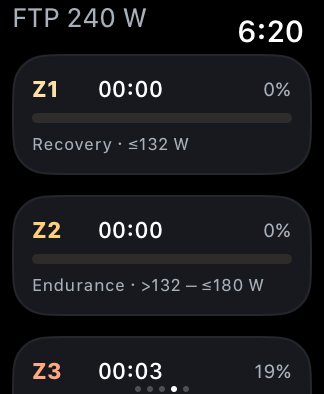
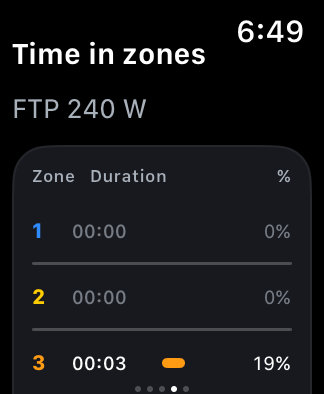
Refine zone charts and verify physical Watch installation

diff --git a/WatchApp/Views/AnalyticsView.swift b/WatchApp/Views/AnalyticsView.swift
@@ -32,12 +32,32 @@ struct ZoneStrip: View {
 struct TrendChart: View {
     let timeline: MetricTimeline
     let metric: ZoneMetric
+    var profile = TrainingProfile()
     var compact = false
     var height: CGFloat = 90
     private var lower: Double { max(0, (timeline.points.map(\.value).min() ?? 0) - (metric == .heartRate ? 10 : 25)) }
     private var upper: Double { max(lower + 20, (timeline.points.map(\.value).max() ?? 100) + (metric == .heartRate ? 10 : 25)) }
 
+    private func zoneGradient(lower: Double, upper: Double, opacity: Double = 1) -> LinearGradient {
+        let zones = profile.zones(for: metric)
+        guard !zones.isEmpty else {
+            return LinearGradient(colors: [metric.tint.opacity(opacity), metric.tint.opacity(opacity)], startPoint: .bottom, endPoint: .top)
+        }
+        var stops = [Gradient.Stop(color: Palette.zone(profile.zone(for: max(1, lower), metric: metric)?.id ?? zones[0].id).opacity(opacity), location: 0)]
+        for (index, zone) in zones.enumerated() where index > 0 && zone.lowerBound > lower && zone.lowerBound < upper {
+            let location = (zone.lowerBound - lower) / (upper - lower)
+            stops.append(.init(color: Palette.zone(zones[index - 1].id).opacity(opacity), location: location))
+            stops.append(.init(color: Palette.zone(zone.id).opacity(opacity), location: location))
+        }
+        stops.append(.init(color: Palette.zone(profile.zone(for: upper, metric: metric)?.id ?? zones.last!.id).opacity(opacity), location: 1))
+        return LinearGradient(stops: stops, startPoint: .bottom, endPoint: .top)
+    }
+
     var body: some View {
+        let domainLow = lower
+        let domainHigh = upper
+        let lineGradient = zoneGradient(lower: domainLow, upper: domainHigh)
+        let areaGradient = zoneGradient(lower: domainLow, upper: domainHigh, opacity: 0.14)
         Group {
             if timeline.points.isEmpty {
                 VStack(spacing: 6) {
@@ -47,22 +67,23 @@ struct TrendChart: View {
             } else {
                 Chart {
                     ForEach(Array(timeline.points.enumerated()), id: \.offset) { _, point in
-                        AreaMark(x: .value("Active time", point.elapsed), yStart: .value("Base", lower), yEnd: .value(metric.title, point.value), series: .value("Segment", point.segment))
-                            .foregroundStyle(LinearGradient(colors: [metric.tint.opacity(0.25), metric.tint.opacity(0.01)], startPoint: .top, endPoint: .bottom))
+                        AreaMark(x: .value("Active time", point.elapsed), yStart: .value("Base", domainLow), yEnd: .value(metric.title, point.value), series: .value("Segment", point.segment))
+                            .foregroundStyle(areaGradient).alignsMarkStylesWithPlotArea()
                         LineMark(x: .value("Active time", point.elapsed), y: .value(metric.title, point.value), series: .value("Segment", point.segment))
-                            .foregroundStyle(metric.tint).lineStyle(StrokeStyle(lineWidth: 1.8, lineCap: .round))
+                            .foregroundStyle(lineGradient).alignsMarkStylesWithPlotArea()
+                            .lineStyle(StrokeStyle(lineWidth: 1.8, lineCap: .round))
                     }
                     if let last = timeline.points.last {
                         PointMark(x: .value("Active time", last.elapsed), y: .value(metric.title, last.value))
-                            .foregroundStyle(metric.tint).symbolSize(12)
+                            .foregroundStyle(profile.zone(for: last.value, metric: metric).map { Palette.zone($0.id) } ?? metric.tint).symbolSize(12)
                     }
                 }
-                .chartYScale(domain: lower...upper)
+                .chartYScale(domain: domainLow...domainHigh)
                 .chartXScale(domain: 0...max(1, timeline.points.last?.elapsed ?? 1))
                 .chartXAxis(.hidden)
                 .chartYAxis {
                     if !compact {
-                        AxisMarks(position: .leading, values: .automatic(desiredCount: 3)) { _ in
+                        AxisMarks(position: .trailing, values: .automatic(desiredCount: 3)) { _ in
                             AxisGridLine().foregroundStyle(.white.opacity(0.07))
                             AxisValueLabel().font(.system(size: 9)).foregroundStyle(Palette.muted)
                         }
@@ -103,8 +124,9 @@ struct LiveZoneView: View {
                             .accessibilityIdentifier("\(metric.rawValue)LiveZone")
                         ZoneStrip(profile: workout.analytics.profile, metric: metric, selected: zone?.id)
                     }
-                    TrendChart(timeline: workout.analytics.timeline(for: metric), metric: metric, height: 60)
+                    TrendChart(timeline: workout.analytics.timeline(for: metric), metric: metric, profile: workout.analytics.profile, height: 60)
                     chartTimeLabels(workout.analytics.timeline(for: metric))
+                    ZoneScale(profile: workout.analytics.profile, metric: metric, value: value).padding(.top, 8)
                     ZoneDistribution(analytics: workout.analytics, metric: metric, duration: workout.elapsed).padding(.top, 12)
                 }.padding(.horizontal, 4).padding(.bottom, 18)
             }.accessibilityIdentifier("\(metric.rawValue)Insights")
@@ -117,18 +139,34 @@ struct WorkoutInsightsView: View {
     let metric: ZoneMetric
     let duration: TimeInterval
     var body: some View {
+        let timeline = analytics.timeline(for: metric)
+        let averageZone = analytics.profile.zone(for: timeline.average, metric: metric)
         ScrollView {
-            VStack(alignment: .leading, spacing: 14) {
-                HStack {
-                    compactStat("Average", value: formatted(analytics.timeline(for: metric).average), unit: metric.unit, tint: metric.tint)
-                    Spacer()
-                    compactStat("Peak", value: formatted(analytics.timeline(for: metric).peak), unit: metric.unit, tint: .white)
-                }
-                VStack(spacing: 6) {
-                    TrendChart(timeline: analytics.timeline(for: metric), metric: metric)
-                    chartTimeLabels(analytics.timeline(for: metric))
-                }
+            VStack(alignment: .leading, spacing: 12) {
+                VStack(alignment: .leading, spacing: 8) {
+                    HStack(alignment: .bottom, spacing: 4) {
+                        VStack(alignment: .leading, spacing: 3) {
+                            HStack(alignment: .firstTextBaseline, spacing: 2) {
+                                Text(formatted(timeline.average)).font(.system(size: 25, weight: .semibold, design: .rounded)).monospacedDigit()
+                                Text(metric.unit).font(.system(size: 10)).foregroundStyle(Palette.muted)
+                            }
+                            Text(metric == .heartRate ? "Average HR" : "Average power").font(.system(size: 10)).foregroundStyle(Palette.muted)
+                        }
+                        Spacer(minLength: 0)
+                        if let averageZone {
+                            Text(averageZone.label).font(.system(size: 10, weight: .semibold)).foregroundStyle(Palette.zone(averageZone.id))
+                        }
+                    }
+                    TrendChart(timeline: timeline, metric: metric, profile: analytics.profile, height: 65)
+                    chartTimeLabels(timeline)
+                    ZoneScale(profile: analytics.profile, metric: metric, value: timeline.average)
+                }.metricCard()
                 ZoneDistribution(analytics: analytics, metric: metric, duration: duration)
+                HStack {
+                    Text("Peak \(metric.title.lowercased())").font(.caption2).foregroundStyle(Palette.muted)
+                    Spacer(minLength: 3)
+                    Text("\(formatted(timeline.peak)) \(metric.unit)").font(.caption2).monospacedDigit()
+                }
             }.padding(.horizontal, 4).padding(.bottom, 12)
         }.navigationTitle(metric.title)
     }
@@ -138,6 +176,7 @@ struct ZoneDistribution: View {
     let analytics: WorkoutAnalytics
     let metric: ZoneMetric
     let duration: TimeInterval
+    @State private var showRanges = false
     private var timeline: MetricTimeline { analytics.timeline(for: metric) }
     var body: some View {
         VStack(alignment: .leading, spacing: 10) {
@@ -145,27 +184,55 @@ struct ZoneDistribution: View {
             if let baseline = analytics.profile.baseline(for: metric) {
                 Text("\(metric == .heartRate ? "Max HR" : "FTP") \(Int(baseline)) \(metric.unit)")
                     .font(.caption2).foregroundStyle(Palette.muted)
-                ForEach(analytics.profile.zones(for: metric)) { zone in
-                    let seconds = timeline.zoneSeconds[zone.id, default: 0]
-                    let fraction = timeline.recordedSeconds > 0 ? seconds / timeline.recordedSeconds : 0
-                    VStack(alignment: .leading, spacing: 5) {
-                        HStack {
-                            Text(zone.id == 0 ? "< Z1" : "Z\(zone.id)").foregroundStyle(Palette.zone(zone.id))
-                                .font(.system(size: 12, weight: .bold)).frame(width: 29, alignment: .leading)
-                            Text(MetricFormat.elapsed(seconds)).font(.system(size: 12, weight: .medium)).monospacedDigit()
-                            Spacer(minLength: 3)
-                            Text(String(format: "%.0f%%", fraction * 100)).font(.system(size: 10)).foregroundStyle(Palette.muted)
+                VStack(spacing: 0) {
+                    HStack {
+                        Text("Zone").frame(width: 25, alignment: .leading)
+                        Text("Duration")
+                        Spacer()
+                        Text("%")
+                    }.font(.system(size: 9, weight: .medium)).foregroundStyle(Palette.muted).padding(.bottom, 6)
+                    ForEach(analytics.profile.zones(for: metric)) { zone in
+                        let seconds = timeline.zoneSeconds[zone.id, default: 0]
+                        let fraction = timeline.recordedSeconds > 0 ? seconds / timeline.recordedSeconds : 0
+                        let longest = timeline.zoneSeconds.values.max() ?? 0
+                        let barFraction = longest > 0 ? seconds / longest : 0
+                        HStack(spacing: 5) {
+                            Text("\(zone.id)").foregroundStyle(Palette.zone(zone.id))
+                                .font(.system(size: 11, weight: .bold)).frame(width: 15, alignment: .leading)
+                            Text(MetricFormat.elapsed(seconds)).font(.system(size: 10, weight: .medium)).monospacedDigit()
+                                .frame(width: 40, alignment: .leading).minimumScaleFactor(0.7).lineLimit(1)
+                            GeometryReader { geometry in
+                                Capsule().fill(Palette.zone(zone.id)).frame(width: geometry.size.width * min(1, barFraction))
+                            }.frame(height: 5)
+                            Text(String(format: "%.0f%%", fraction * 100)).font(.system(size: 10)).monospacedDigit()
+                                .frame(width: 26, alignment: .trailing)
+                        }.foregroundStyle(seconds > 0 ? .white : Palette.muted.opacity(0.65)).padding(.vertical, 9)
+                            .accessibilityElement(children: .ignore)
+                            .accessibilityLabel("\(zone.label), \(zone.name)")
+                            .accessibilityValue("\(MetricFormat.elapsed(seconds)), \(Int((fraction * 100).rounded())) percent, \(zone.range) \(metric.unit)")
+                            .accessibilityIdentifier("\(metric.rawValue)ZoneRow\(zone.id)")
+                        if zone.id != analytics.profile.zones(for: metric).last?.id {
+                            Divider().overlay(.white.opacity(0.03))
                         }
-                        GeometryReader { geometry in
-                            Capsule().fill(Palette.zone(zone.id).opacity(0.10))
-                            Capsule().fill(Palette.zone(zone.id)).frame(width: geometry.size.width * min(1, fraction))
-                        }.frame(height: 5)
-                        Text("\(zone.name) · \(zone.range) \(metric.unit)")
-                            .font(.system(size: 9)).foregroundStyle(Palette.muted).fixedSize(horizontal: false, vertical: true)
-                    }.metricCard()
-                        .accessibilityElement(children: .ignore)
-                        .accessibilityLabel("\(zone.label), \(zone.name)")
-                        .accessibilityValue("\(MetricFormat.elapsed(seconds)), \(Int((fraction * 100).rounded())) percent, \(zone.range) \(metric.unit)")
+                    }
+                }.metricCard()
+                Button {
+                    showRanges.toggle()
+                } label: {
+                    HStack {
+                        Text("Zone ranges")
+                        Spacer()
+                        Image(systemName: showRanges ? "chevron.up" : "chevron.down")
+                    }.font(.system(size: 11))
+                }.accessibilityIdentifier("\(metric.rawValue)ZoneRanges")
+                if showRanges {
+                    ForEach(analytics.profile.zones(for: metric)) { zone in
+                        HStack {
+                            Text("Z\(zone.id)").foregroundStyle(Palette.zone(zone.id))
+                            Spacer(minLength: 3)
+                            Text("\(zone.range) \(metric.unit)")
+                        }.font(.system(size: 10)).padding(.vertical, 3)
+                    }
                 }
                 Text("Percent of recorded \(metric.title.lowercased()) time. Pauses are excluded.")
                     .font(.caption2).foregroundStyle(Palette.muted)
@@ -178,6 +245,57 @@ struct ZoneDistribution: View {
                 Spacer()
                 Text(MetricFormat.elapsed(max(0, duration - timeline.recordedSeconds))).font(.caption2).monospacedDigit()
             }.foregroundStyle(Palette.muted)
+        }
+    }
+}
+
+/// Equal-width bands match the reference's readable legend. The marker's
+/// position within a band reflects the value within that band's numeric range.
+struct ZoneScale: View {
+    let profile: TrainingProfile
+    let metric: ZoneMetric
+    let value: Double?
+    private var zones: [TrainingZone] { profile.zones(for: metric) }
+
+    private var position: Double? {
+        guard let value, let current = profile.zone(for: value, metric: metric),
+              let index = zones.firstIndex(where: { $0.id == current.id }),
+              let baseline = profile.baseline(for: metric) else { return nil }
+        let upper = current.upperBound ?? baseline * (metric == .heartRate ? 1 : 2)
+        let fraction = min(1, max(0, (value - current.lowerBound) / max(1, upper - current.lowerBound)))
+        return (Double(index) + fraction) / Double(zones.count)
+    }
+
+    var body: some View {
+        if !zones.isEmpty {
+            VStack(spacing: 4) {
+                HStack(spacing: 1) {
+                    ForEach(zones) { zone in
+                        Text("Z\(zone.id)").font(.system(size: 9, weight: .semibold))
+                            .foregroundStyle(Palette.zone(zone.id)).frame(maxWidth: .infinity)
+                    }
+                }
+                GeometryReader { geometry in
+                    HStack(spacing: 1) {
+                        ForEach(zones) { zone in Rectangle().fill(Palette.zone(zone.id)) }
+                    }.clipShape(Capsule())
+                    if let position {
+                        Circle().fill(Palette.panel).overlay(Circle().strokeBorder(.white, lineWidth: 1.5))
+                            .frame(width: 7, height: 7)
+                            .offset(x: min(geometry.size.width - 7, max(0, geometry.size.width * position - 3.5)), y: -0.5)
+                    }
+                }.frame(height: 6)
+                HStack(spacing: 1) {
+                    ForEach(zones) { zone in
+                        Text("\(formatted(zone.lowerBound))\(zone.upperBound == nil ? "+" : "")")
+                            .font(.system(size: 7)).monospacedDigit().foregroundStyle(Palette.muted)
+                            .minimumScaleFactor(0.6).lineLimit(1).frame(maxWidth: .infinity)
+                    }
+                }
+            }.accessibilityElement(children: .ignore)
+                .accessibilityLabel("\(metric.title) zone scale")
+                .accessibilityValue(profile.zone(for: value, metric: metric)?.label ?? "No current value")
+                .accessibilityIdentifier("\(metric.rawValue)ZoneScale")
         }
     }
 }

diff --git a/WatchApp/Views/RootView.swift b/WatchApp/Views/RootView.swift
@@ -9,9 +9,10 @@ enum Palette {
     static let muted = Color(red: 0.66, green: 0.69, blue: 0.73)
 
     static func zone(_ id: Int) -> Color {
-        [blue, Color(red: 0.99, green: 0.88, blue: 0.65), Color(red: 1, green: 0.81, blue: 0.50),
-         coral, Color(red: 1, green: 0.46, blue: 0.28), Color(red: 0.96, green: 0.35, blue: 0.39),
-         Color(red: 0.84, green: 0.55, blue: 0.88), Color(red: 0.70, green: 0.61, blue: 1)][min(7, max(0, id))]
+        [Color(red: 0.67, green: 0.74, blue: 1), Color(red: 0.18, green: 0.55, blue: 1),
+         Color(red: 1, green: 0.80, blue: 0), Color(red: 1, green: 0.61, blue: 0.08),
+         Color(red: 1, green: 0.27, blue: 0.30), Color(red: 0.63, green: 0.36, blue: 1),
+         Color(red: 0.87, green: 0.39, blue: 0.86), Color(red: 1, green: 0.58, blue: 0.74)][min(7, max(0, id))]
     }
 }
 

diff --git a/UITests/BikeTrackUITests.swift b/UITests/BikeTrackUITests.swift
@@ -145,9 +145,17 @@ final class BikeTrackUITests: XCTestCase {
         XCTAssertTrue(app.navigationBars["Heart rate"].waitForExistence(timeout: 5))
         capture(app, name: "Heart rate analysis")
         scrollGently(app)
+        XCTAssertTrue(app.otherElements["heartRateZoneScale"].exists)
+        capture(app, name: "Heart rate zone scale")
+        scrollGently(app)
         scrollGently(app)
         scrollGently(app)
         capture(app, name: "Heart rate zone distribution")
+        let ranges = app.buttons["heartRateZoneRanges"]
+        for _ in 0..<6 where !ranges.isHittable { scrollGently(app) }
+        XCTAssertTrue(ranges.isHittable)
+        ranges.tap()
+        XCTAssertTrue(app.staticTexts["<95 bpm"].waitForExistence(timeout: 5))
     }
 
     @MainActor

diff --git a/WatchApp/Views/SummaryView.swift b/WatchApp/Views/SummaryView.swift
@@ -55,7 +55,7 @@ struct SummaryView: View {
                     Text(formatted(analytics.timeline(for: metric).average)).font(.system(size: 26, weight: .semibold, design: .rounded))
                     Text("\(metric.unit) avg").font(.system(size: 10)).foregroundStyle(Palette.muted)
                 }
-                TrendChart(timeline: analytics.timeline(for: metric), metric: metric, compact: true)
+                TrendChart(timeline: analytics.timeline(for: metric), metric: metric, profile: analytics.profile, compact: true)
                 Text("Explore zones").font(.system(size: 10)).foregroundStyle(Palette.muted)
             }.metricCard()
         }.buttonStyle(.plain).accessibilityIdentifier("\(metric.rawValue)SummaryChart")

diff --git a/docs/VERIFICATION.md b/docs/VERIFICATION.md
@@ -2,6 +2,16 @@
 
 Executed locally on October 10, 2026 with Xcode 27.0 (27A266a), Swift 6.4, and the watchOS 27.0 SDK/runtime. The deployment target is watchOS 11; older runtimes have not been exercised.
 
+## Reference layout and physical installation
+
+The reference-inspired analysis now includes zone-colored lines and area fills, an average-zone label, threshold bands with a value marker, and a compact duration/bar/percentage table. The exact zone ranges expand on demand.
+
+The two focused 40 mm simulator UI tests passed: both live charts through saved analysis, and demo pause/resume/end/return home (`build-reference/ReferenceUIFixed.xcresult`). After the final chart-gradient optimization, the chart flow passed again with assertions for the threshold scale and expanded range labels (`build-reference/FinalReference.xcresult`). Final screenshots were captured in a successful repeat of that flow (`build-reference/ReferenceScreens.xcresult`); the updated `*-small.png` chart/zone captures show the reference layout with synthetic demo values. The final unsigned device Release build also passed.
+
+BikeTrack 1.0 (1), bundle `com.biketrack.watchapp`, was then signed, installed, and launched on a physical **Apple Watch Series 11 running watchOS 27.2**. Xcode reported the app running on the Watch, and `devicectl` confirmed the installation. The embedded development profile includes HealthKit and the connected Watch. Initial signing was blocked by a pending Apple Developer Program License Agreement; installation succeeded after the account holder accepted it and Xcode refreshed provisioning.
+
+This physical check establishes installation and launch only. A real equipment-connected workout, optical heart-rate recording, background operation, and Fitness synchronization remain to be validated below.
+
 ## Training zones and design refresh
 
 The current BikeTrack bundle (`com.biketrack.watchapp`) was verified on watchOS 27 simulators:
@@ -55,6 +65,6 @@ Local result bundles (ignored by version control):
 
 No Bowflex IC SE, Bowflex C6, or Schwinn IC4 was connected during development. Their Bluetooth advertisements, firmware-specific payloads, available metrics, and reconnect behavior remain unverified. Standard protocol parsing and simulator tests cannot establish model compatibility.
 
-Optical heart rate, real active-energy estimates, wrist-down/background operation, battery consumption, connection loss, crash recovery, and phone Fitness synchronization require an on-wrist session. A successful unsigned build does not install the app on a Watch: select an Apple development team and sign it in Xcode first.
+Optical heart rate, real active-energy estimates, wrist-down/background operation, battery consumption, connection loss, crash recovery, and phone Fitness synchronization require an on-wrist session. The signed physical installation above is ready for these checks; simulator results do not establish their outcome.
 
 Use [HARDWARE-VALIDATION.md](HARDWARE-VALIDATION.md) for those checks. This record establishes the tested scope; it is not a claim of perfect operation on untested equipment.

diff --git a/README.md b/README.md
@@ -11,7 +11,7 @@ A lightweight, standalone Apple Watch app for tracking indoor bike sessions, bas
 - Combines equipment metrics with the Watch's heart rate and active energy.
 - Records indoor cycling, running, and walking workouts to HealthKit for Apple Fitness and Health.
 - Shows power, cadence, speed, distance, elapsed time, heart rate, and energy when available.
-- Shows live heart-rate and cycling power zones, with separate trend charts and time-in-zone breakdowns.
+- Shows live heart-rate and cycling power zones, with zone-colored charts, threshold scales, and time-in-zone breakdowns.
 - Saves chart data and each workout's maximum-heart-rate/FTP settings alongside local history.
 - Supports pause/resume, automatic reconnection, save retries, and active-workout recovery.
 - Retains the last 100 saved workout summaries locally.
@@ -23,9 +23,9 @@ No accounts, subscriptions, analytics SDKs, or app-operated server. Export to St
 
 <p>
   <img src="docs/screenshots/live-zones-small.png" width="160" alt="BikeTrack live heart-rate and power zones on a 40 mm Watch simulator">
-  <img src="docs/screenshots/heart-rate-trend-small.png" width="160" alt="Live heart-rate trend in demo mode">
-  <img src="docs/screenshots/power-trend-small.png" width="160" alt="Live cycling power trend in demo mode">
-  <img src="docs/screenshots/power-distribution-large.png" width="200" alt="Time spent in cycling power zones">
+  <img src="docs/screenshots/heart-rate-analysis-small.png" width="160" alt="Average heart rate and zone-colored workout chart">
+  <img src="docs/screenshots/zone-scale-small.png" width="160" alt="Heart-rate threshold scale and average position marker">
+  <img src="docs/screenshots/zone-distribution-small.png" width="160" alt="Time spent in heart-rate zones">
 </p>
 
 Actual watchOS simulator screenshots. Workout values shown here are simulated demo data.

diff --git a/docs/TRAINING-ZONES.md b/docs/TRAINING-ZONES.md
@@ -2,6 +2,10 @@
 
 Both heart-rate and cycling power zones appear on the main workout screen. Swipe left to see the individual metric's chart and scroll for time in each zone. Saved summaries and History retain the same charts and distributions.
 
+The workout analysis follows the supplied reference: average and average-zone label, a line colored by the zone at each height, a segmented threshold scale with a position marker, and a compact duration/percentage table. The dark cards and scrollable layout fit the Watch. The same colors are used for live badges, charts, scales, and table bars.
+
+Scale bands have equal widths for readability; the marker interpolates within its current band's numeric range. Threshold labels are rounded for the small display; **Zone ranges** expands the precise inclusive/exclusive limits. Table bars are relative to the longest observed zone duration, while percentages use all recorded time for that metric. Zero-duration zones have no bar.
+
 ## Your profile
 
 Open **Training zones** from Home or Settings. Explicitly save your measured maximum heart rate and cycling functional threshold power (FTP). The picker offers a starting position, but no value becomes a personal setting until you press Save. Clear a value to disable that zone scale. There is no age-based estimate or silent default for real workouts.
